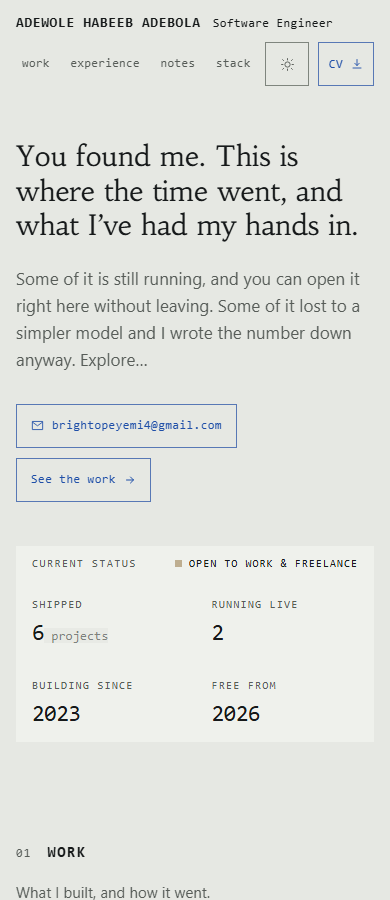
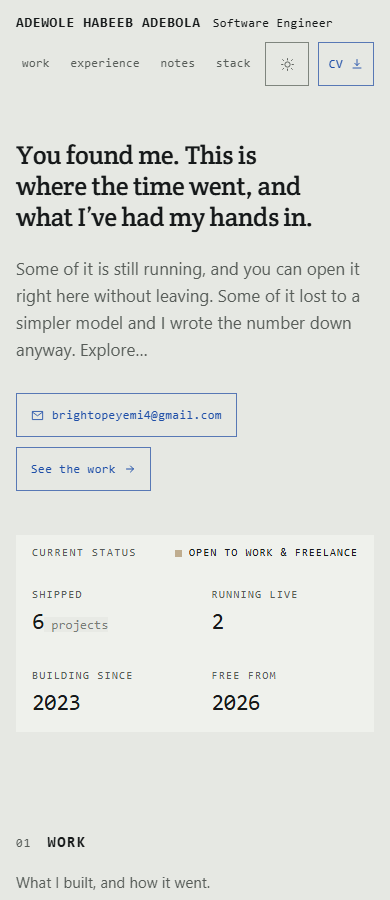
[phase-5] Crete Round replaces Habibi as the display face
Habibi went in one commit ago and did not survive contact: one weight,
no bold, and no way to give the headline presence without size alone.
Crete Round (TypeTogether, OFL) is a rounded slab with the same warmth
and an actual italic, chosen off a fifteen-face comparison set in his
own headline on his own palette.

Still one weight, so the no-synthetic-bold rule stands and every
--display rule states 400 explicitly. The italic is not shipped because
nothing uses it yet; fonts.css says where to get it.

Georgia now leads the fallback stack. Measured at 100px, Crete Round is
x-height 50 / cap 68 / test-line 1895px against Georgia's 48 / 69 /
1881 — inside 1%, so the swap reflow is nearly invisible. Rockwell is
the closer stylistic match but the worse metric one, and the swap is
what the visitor actually sees.

Habibi ran small so the headline had been sized up to compensate. Crete
Round sits about where Georgia does, so that comes back down: 2.75rem
to 2.5rem, entry titles 1.625rem to 1.5rem.

verify and verify:motion both pass: contrast identical, zero overflow
at five widths, no target under 44px, gauges settle at the same four
figures, reduced motion still renders final state.

diff --git a/src/styles/fonts.css b/src/styles/fonts.css
@@ -1,15 +1,20 @@
 /* ============================================================================
-   FONTS — Habibi, self-hosted.
+   FONTS — Crete Round, self-hosted.
 
-   Habibi (Magnus Gaarde, OFL) ships exactly one file: Regular 400, normal.
-   There is no bold and no italic. So anywhere --display is used the weight
-   must be stated as 400 explicitly; leaving a 600/700 in place hands the
-   browser a synthetic bolder, which on an old-style serif thickens the stems
-   and leaves the serifs behind. Emphasis comes from size, spacing and colour.
+   Crete Round (TypeTogether, OFL) ships Regular 400 and a true italic. There
+   is no bold. So anywhere --display is used the weight must be stated as 400
+   explicitly; leaving a 600/700 in place hands the browser a synthetic bolder,
+   which on a rounded slab fattens the stems and flattens the very roundness
+   that makes it worth using. Emphasis comes from size, spacing and colour.
+
+   The italic is NOT shipped, because nothing sets display type in italic yet.
+   If that changes, take it from the same place — the family on Google Fonts —
+   and add a second @font-face with font-style: italic. Do not let the browser
+   slant the roman; a synthesised oblique on a slab looks broken.
 
    Self-hosted rather than linked from fonts.googleapis.com: one origin, no
    third-party request on a page that has no other, and no render-blocking
-   stylesheet on someone else's uptime. The two files total ~19 kB.
+   stylesheet on someone else's uptime. The two files total ~18 kB.
 
    Subsets and unicode-ranges are Google's own, so a page of pure ASCII never
    downloads the latin-ext file.
@@ -17,11 +22,11 @@
 
 /* latin-ext */
 @font-face {
-  font-family: 'Habibi';
+  font-family: 'Crete Round';
   font-style: normal;
   font-weight: 400;
   font-display: swap;
-  src: url('/fonts/habibi-latin-ext.woff2') format('woff2');
+  src: url('/fonts/creteround-latin-ext.woff2') format('woff2');
   unicode-range: U+0100-02BA, U+02BD-02C5, U+02C7-02CC, U+02CE-02D7, U+02DD-02FF, U+0304,
     U+0308, U+0329, U+1D00-1DBF, U+1E00-1E9F, U+1EF2-1EFF, U+2020, U+20A0-20AB, U+20AD-20C0,
     U+2113, U+2C60-2C7F, U+A720-A7FF;
@@ -29,11 +34,11 @@
 
 /* latin */
 @font-face {
-  font-family: 'Habibi';
+  font-family: 'Crete Round';
   font-style: normal;
   font-weight: 400;
   font-display: swap;
-  src: url('/fonts/habibi-latin.woff2') format('woff2');
+  src: url('/fonts/creteround-latin.woff2') format('woff2');
   unicode-range: U+0000-00FF, U+0131, U+0152-0153, U+02BB-02BC, U+02C6, U+02DA, U+02DC,
     U+0304, U+0308, U+0329, U+2000-206F, U+20AC, U+2122, U+2191, U+2193, U+2212, U+2215,
     U+FEFF, U+FFFD;

diff --git a/index.html b/index.html
@@ -13,12 +13,12 @@
 
     <link rel="icon" href="/favicon.svg" type="image/svg+xml" />
 
-    <!-- The headline is the first thing painted and it is set in Habibi, so the
-         latin subset is fetched in parallel with the CSS rather than after it.
+    <!-- The headline is the first thing painted and it is set in Crete Round, so
+         the latin subset is fetched in parallel with the CSS rather than after it.
          latin-ext is deliberately NOT preloaded — most visits never need it. -->
     <link
       rel="preload"
-      href="/fonts/habibi-latin.woff2"
+      href="/fonts/creteround-latin.woff2"
       as="font"
       type="font/woff2"
       crossorigin

diff --git a/src/styles/tokens.css b/src/styles/tokens.css
@@ -34,7 +34,7 @@
   --focus: #1f4fa8;
 
   /* type */
-  --display: 'Habibi', Constantia, 'Iowan Old Style', Georgia, 'Times New Roman', serif;
+  --display: 'Crete Round', Georgia, Rockwell, 'Bookman Old Style', 'Times New Roman', serif;
   --mono: Consolas, 'SF Mono', 'DejaVu Sans Mono', 'Liberation Mono', 'Courier New', monospace;
   --sans: 'Segoe UI', system-ui, -apple-system, 'Helvetica Neue', sans-serif;
 

diff --git a/src/styles/base.css b/src/styles/base.css
@@ -24,7 +24,7 @@ body {
   text-rendering: optimizeLegibility;
 }
 
-/* The speaking voice. Habibi carries the two moments where the page is a
+/* The speaking voice. Crete Round carries the two moments where the page is a
    person talking rather than an instrument reporting: the headline, and the
    name of each thing he built. One weight only — see fonts.css. */
 .d {

diff --git a/src/components/Hero.css b/src/components/Hero.css
@@ -3,10 +3,10 @@
 }
 
 .hero h1 {
-  font-size: clamp(1.75rem, 4vw, 2.75rem);
+  font-size: clamp(1.6rem, 3.7vw, 2.5rem);
   font-weight: 400;
-  line-height: 1.22;
-  letter-spacing: -0.005em;
+  line-height: 1.2;
+  letter-spacing: -0.01em;
   margin: 0 0 var(--s5);
   max-width: 26ch;
 }

diff --git a/src/components/Entry.css b/src/components/Entry.css
@@ -34,10 +34,10 @@
 
 .unit-hd h3 {
   font-family: var(--display);
-  font-size: 1.625rem;
+  font-size: 1.5rem;
   font-weight: 400;
   line-height: 1.2;
-  letter-spacing: 0;
+  letter-spacing: -0.005em;
   max-width: 26ch;
 }
 

diff --git a/STATE.md b/STATE.md
@@ -233,9 +233,34 @@ Move slowly and deliberately — pointer jitter reads as nervous on a loop.
   Direct quote: "I don't even want it." Do not reintroduce.
 
 ### Visual system
-- **Mono is the display voice** (Consolas / SF Mono / DejaVu Sans Mono). Chosen partly
-  because the previous serif (Constantia) collapsed to Georgia off-Windows and reflowed
-  the headline. Mono is load-bearing here — data and measurement — never a costume.
+- **Three voices, amended 2026-08-31.** Mono was the display voice for Phases 1–4; it is
+  now the *instrument* voice only, and a serif took the display role back.
+  - **Display: Crete Round** (TypeTogether, OFL), self-hosted in `public/fonts/`. Carries
+    the headline and each entry title — the two places the page speaks rather than reports.
+  - **Instrument: mono** (Consolas / SF Mono / DejaVu Sans Mono). Every index, label,
+    figure and readout. Still load-bearing, still never a costume.
+  - **Prose: sans** (`Segoe UI` stack). Anything that is an argument, not a reading.
+
+  The original reason for going mono was that Constantia collapsed to Georgia off-Windows
+  and reflowed the headline. **Self-hosting removes that failure mode entirely**, which is
+  what reopened the decision. The fallback stack is led by Georgia on purpose: measured at
+  100px, Crete Round is x-height 50 / cap 68 / test-line 1895px against Georgia's
+  48 / 69 / 1881 — within about 1%, so the `font-display: swap` reflow is nearly invisible.
+
+  ⚠ **Crete Round ships Regular 400 and an italic. There is no bold.** Every rule using
+  `--display` states `font-weight: 400` explicitly; a 600 or 700 left in place would hand
+  the browser a synthetic bolder, which fattens the stems and flattens the roundness that
+  is the whole reason for the face. Emphasis comes from size, spacing and colour.
+  The italic is not shipped because nothing uses it yet — see `src/styles/fonts.css`.
+
+  **How it was chosen.** Habibi (his find, rank 998/1946) shipped first and was rejected for
+  having no bold at all. A comparison artifact then set fifteen candidates in his own
+  headline on his own palette, ranked by Google Fonts popularity as a proxy for "generic":
+  `claude.ai/code/artifact/02318963-29e8-494f-adb0-4b4ab86bf896`.
+  ⚠ **Do not propose Fraunces, Bricolage Grotesque, Inter, Space Grotesk or Playfair
+  Display.** All rank inside the top 50 and were ruled out by name as the faces an AI
+  reaches for by reflex. He rejects generic and he rejects heavy — the brief that landed
+  was *presence without mass*.
 - **Two accents, strict jobs, no drift:** blue `--mark` = interactive only.
   Ochre `--data` = a measured figure inline in prose only. Everything else neutral.
 - Sans (`Segoe UI` stack) carries prose only — anything that is an argument, not a reading.
